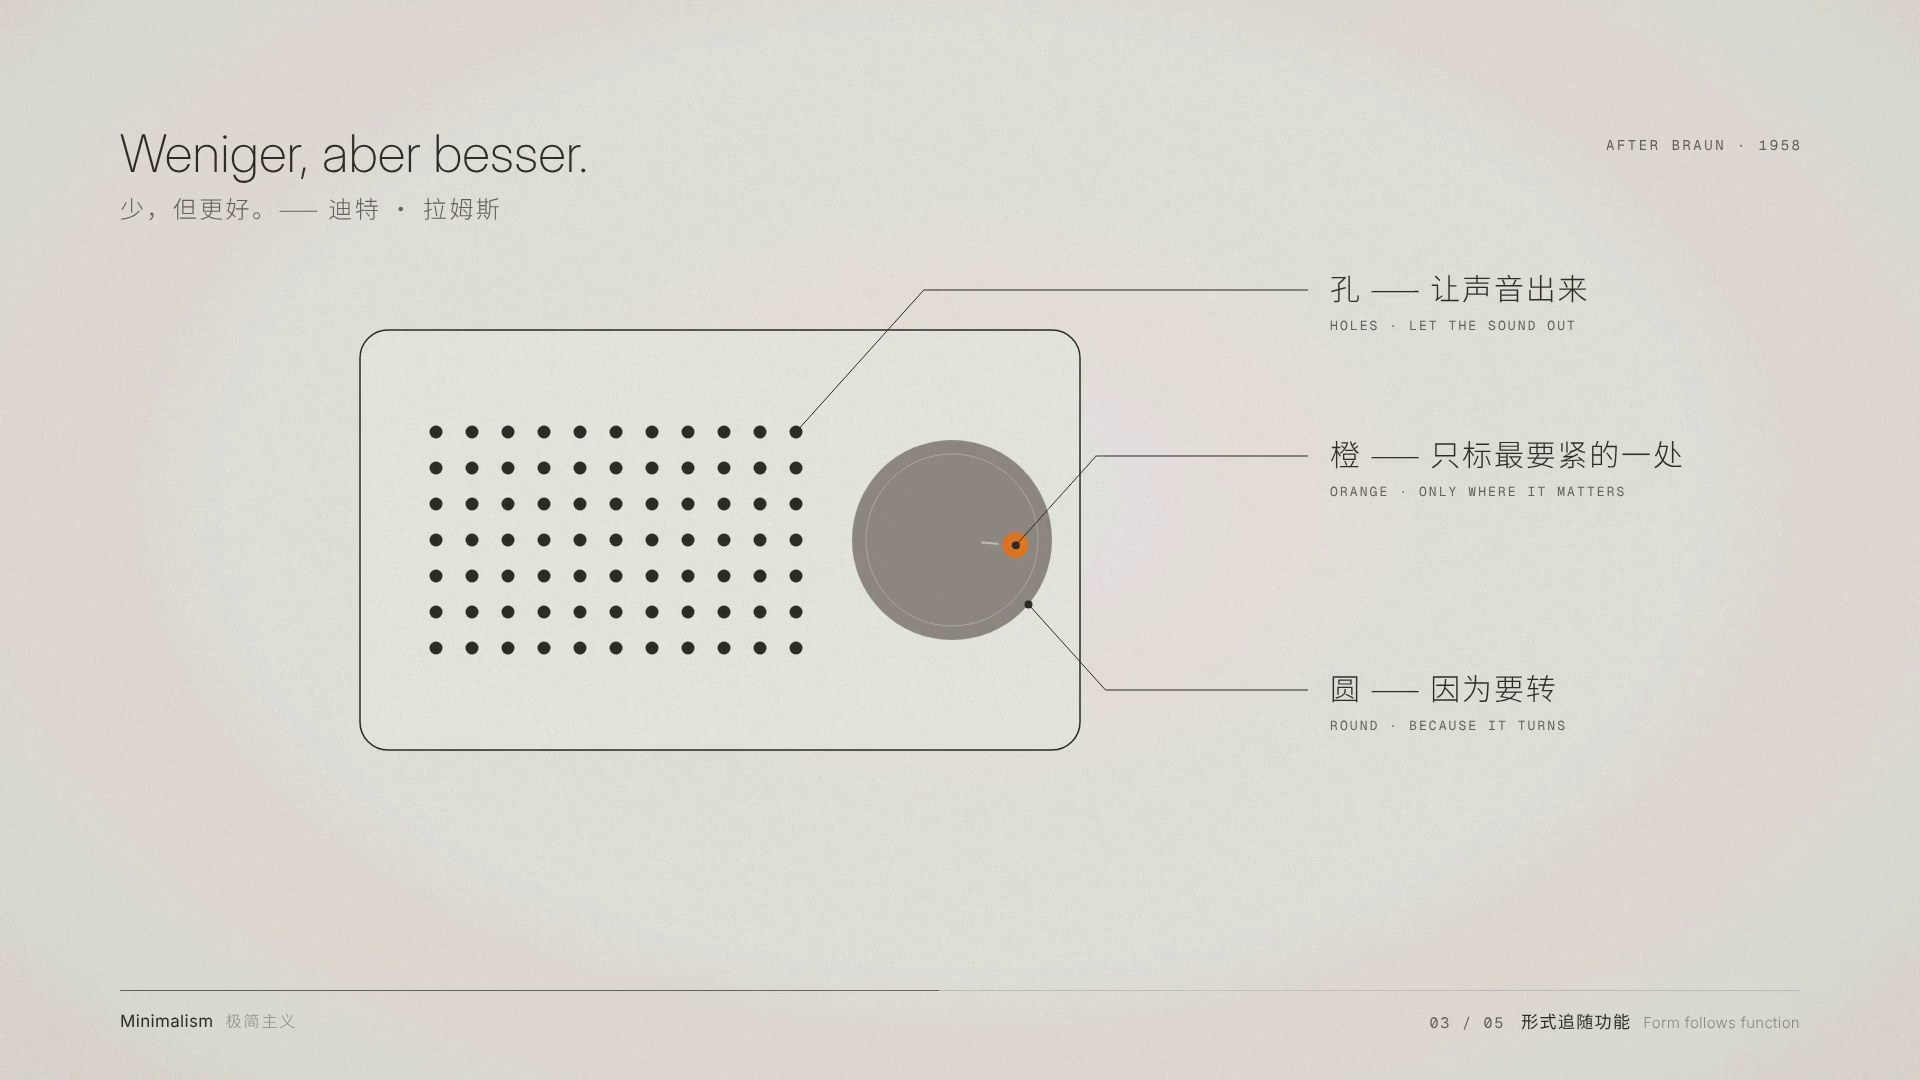
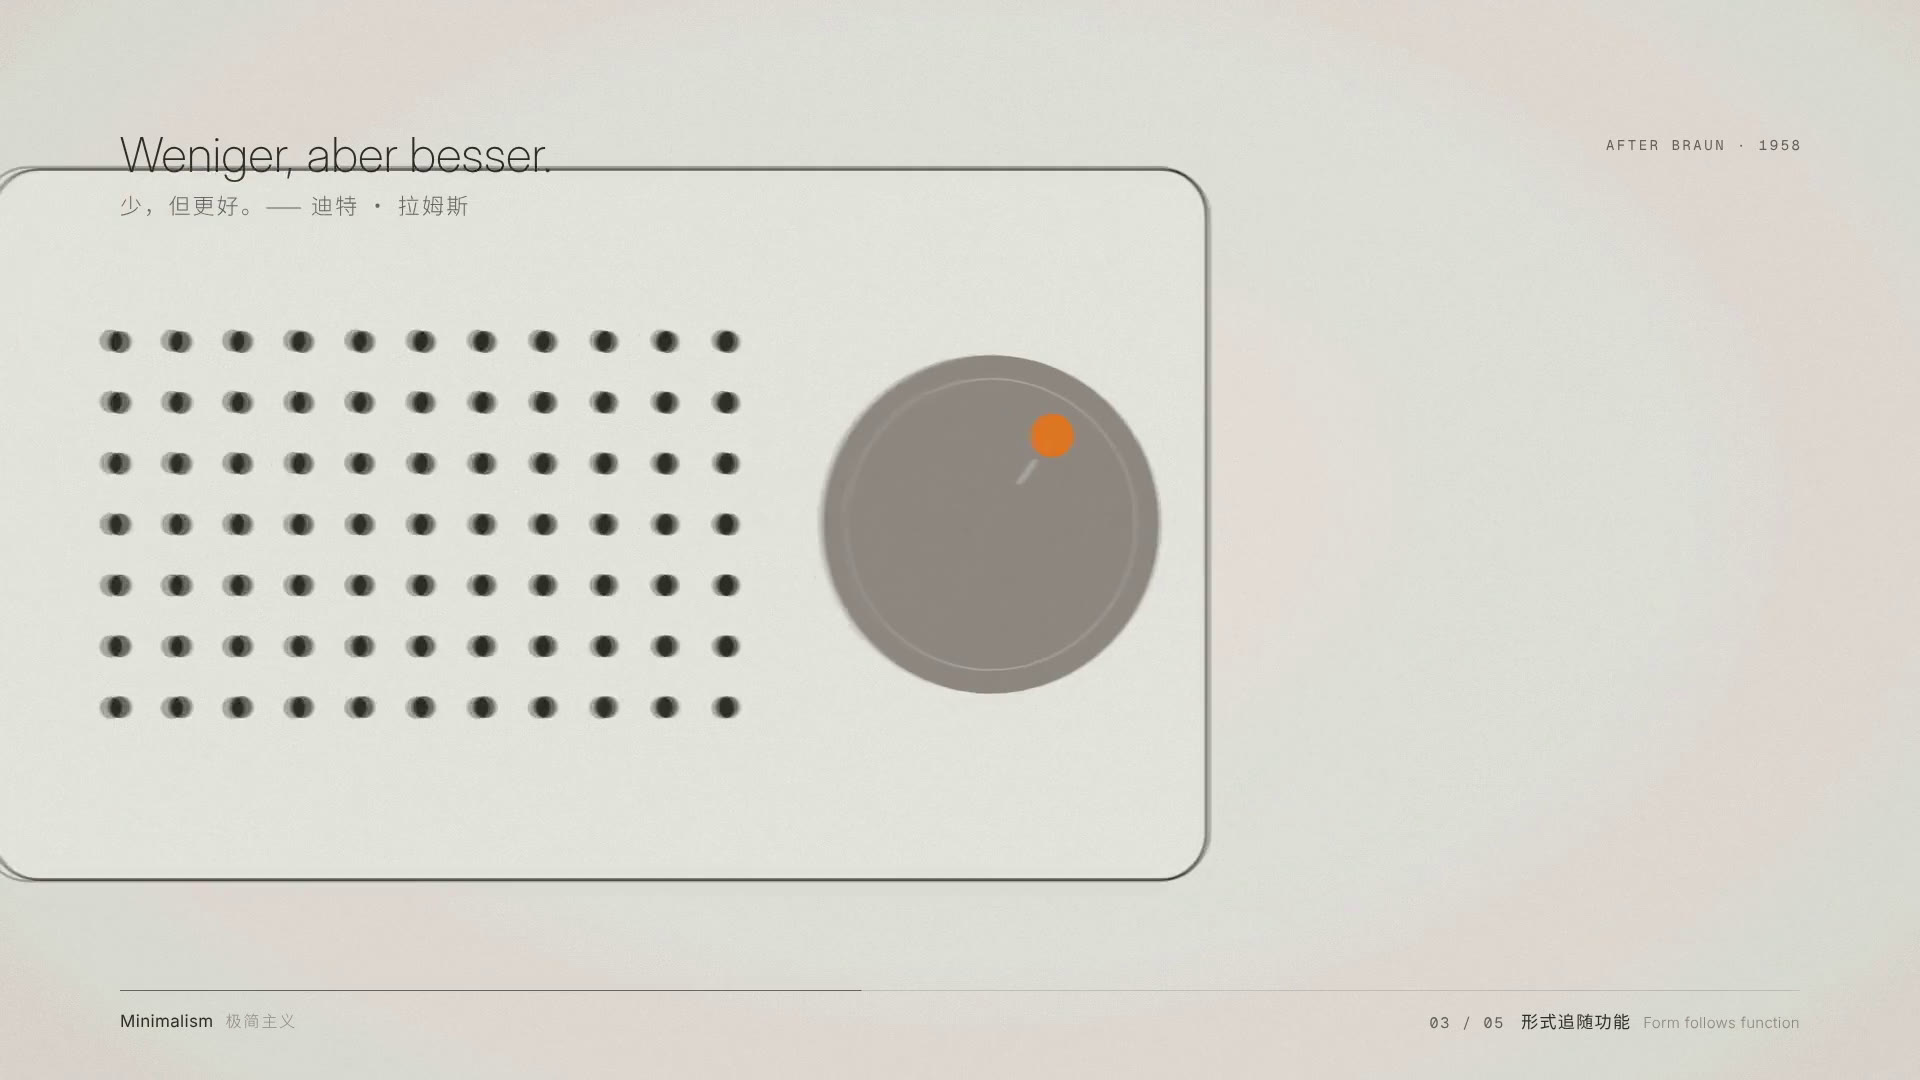
007 二改成片：18.0s · −14.03 LUFS · 更新联系表和封面
分享版 1080 帧 60fps，真峰值 −2.84 dBTP。封面改成镜头推进中的收音机（f384），不再用三条引线那一帧。

diff --git a/styles/007-minimalism/PROCESS.md b/styles/007-minimalism/PROCESS.md
@@ -159,7 +159,8 @@
    - **回顾里的时间线刻度跟着缩放变得很粗：** 刻度画在缩放组外面。
    - **片尾“少，即是多。”逗号留出一个大洞：** 改成“少即是多”四个字等距。
 4. **配乐：** 第一版开场的噪音比 ping 还轻、低频持续音太重、收音机那一段太空、片尾没写完——逐段调了电平、补了片尾段。成片的 AAC 真峰值一度到 −0.5 dBTP，母带天花板压到 −2 dBTP 并加 6ms 淡入后，母版 −1.7、分享版 −1.8 dBTP。
-5. **成片检查：** `ffprobe` 核对 1920×1080 · 60fps · 1080 帧 · 18.0s · H.264 High + AAC；`ebur128` 复测响度。
+5. **成片检查：** `ffprobe` 核对 1920×1080 · 60fps · 1080 帧 · 18.0s · H.264 High + AAC；分享版 **−14.03 LUFS · 真峰值 −2.84 dBTP**。
+6. **二改（审片反馈）：** 开场整轨过 1.5 kHz 暖低通；03 拿掉三条引线、镜头推进格栅再摇到旋钮，开机立刻压扁；04 镜头钉着码高再拉开推进，×N 改到右上角；片长 15s → 18s。主题句在开机、今天、片尾各回一次。
 
 ## 10 · 渲染与发布
 
@@ -173,9 +174,9 @@ ffmpeg -i out/007-minimalism-master.mp4 -i public/007-minimalism/music.wav -map 
 
 - 分享版的声音直接从 WAV 编码（只转一次 AAC），真峰值更稳。
 - 运动模糊每帧渲染 6 次：这台云端机器上整片约 8—10 分钟。改动时只渲受影响的帧，最后才整片渲。
-- 母版约 98MB、分享版约 48MB：纸面颗粒每帧都在变，比 002 的纯色画面大得多。
+- 母版约 119MB、分享版约 58MB：纸面颗粒每帧都在变，比 002 的纯色画面大得多。
 - 视频不进 git 仓库，审片通过后放在 [Releases · day-07](https://github.com/guanmo-ai/design-style/releases/tag/day-07)。
-- 封面：03 功能那一幕的第 412 帧（三条引线都已出现）→ `video/cover.jpg`。
+- 封面：03 功能那一幕的第 384 帧（镜头推进收音机，不再钉三条引线）→ `video/cover.jpg`。
 
 ## 11 · 踩坑记录
 
